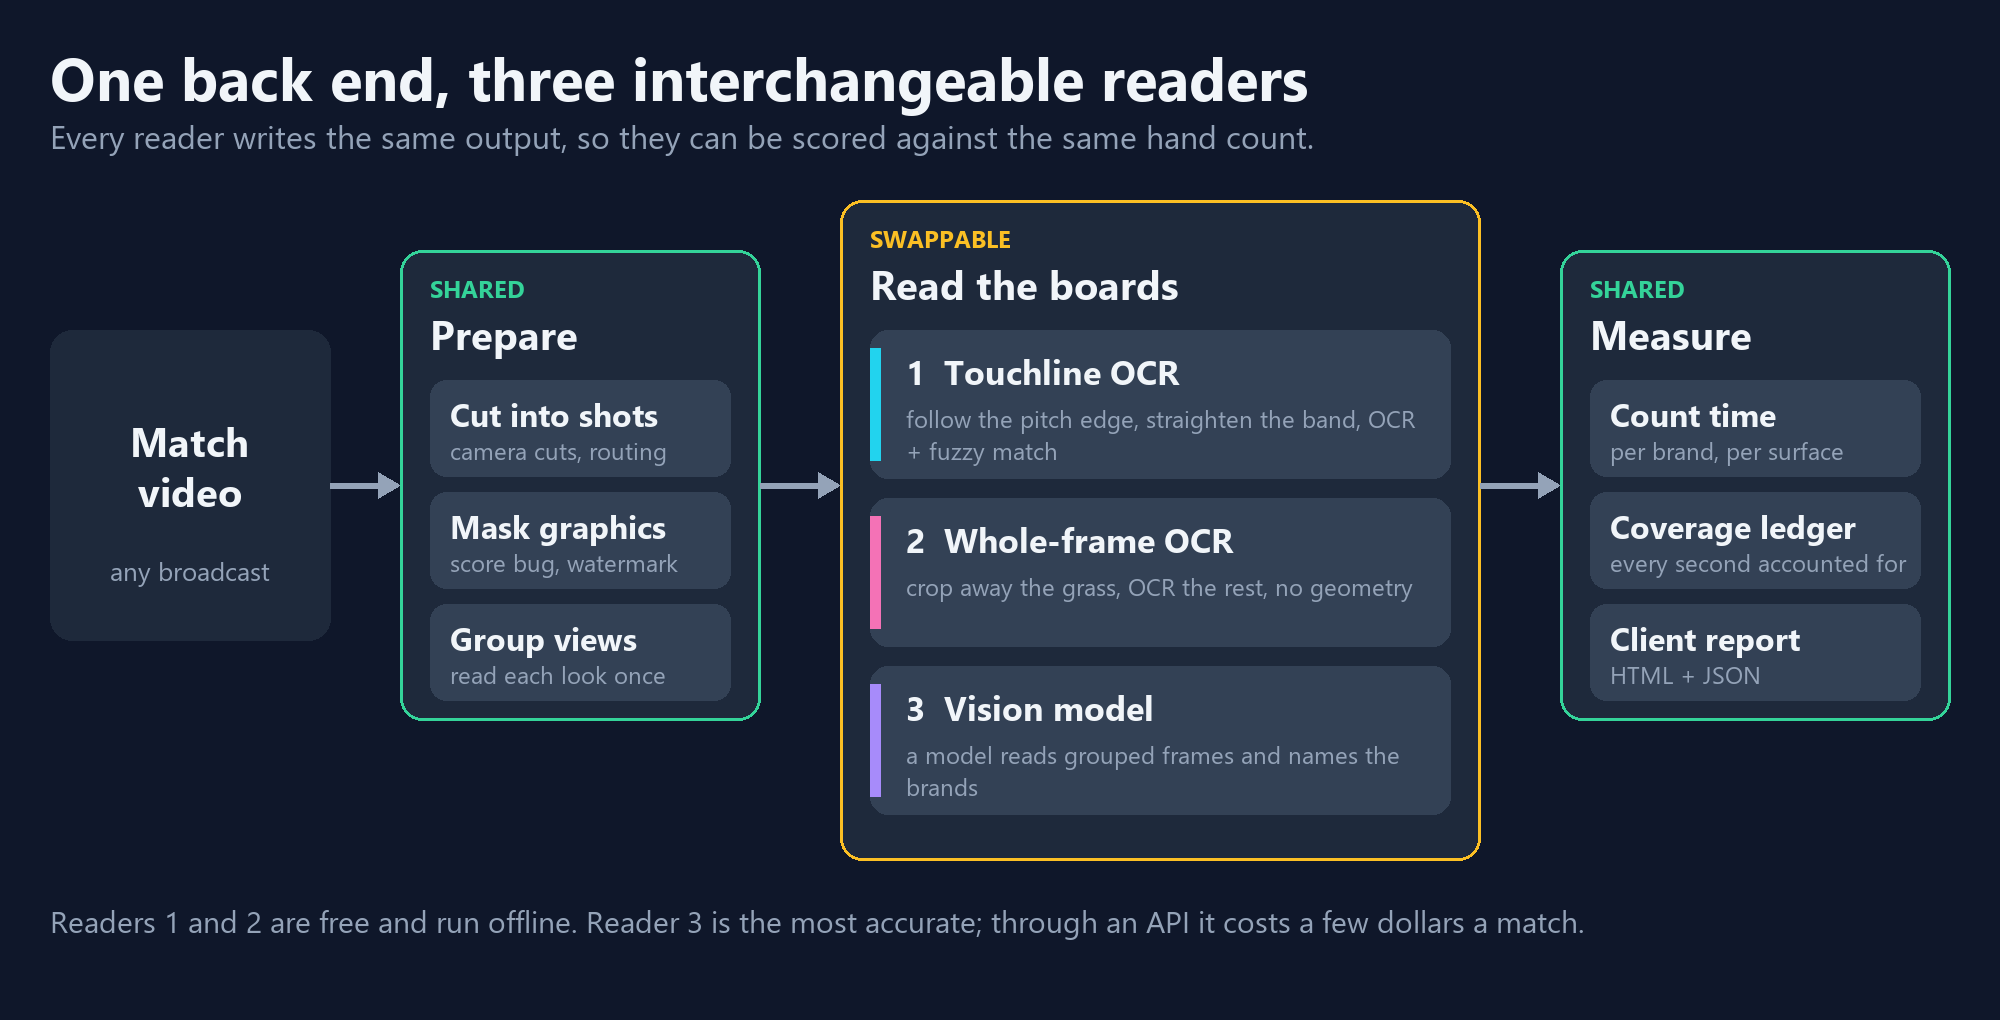
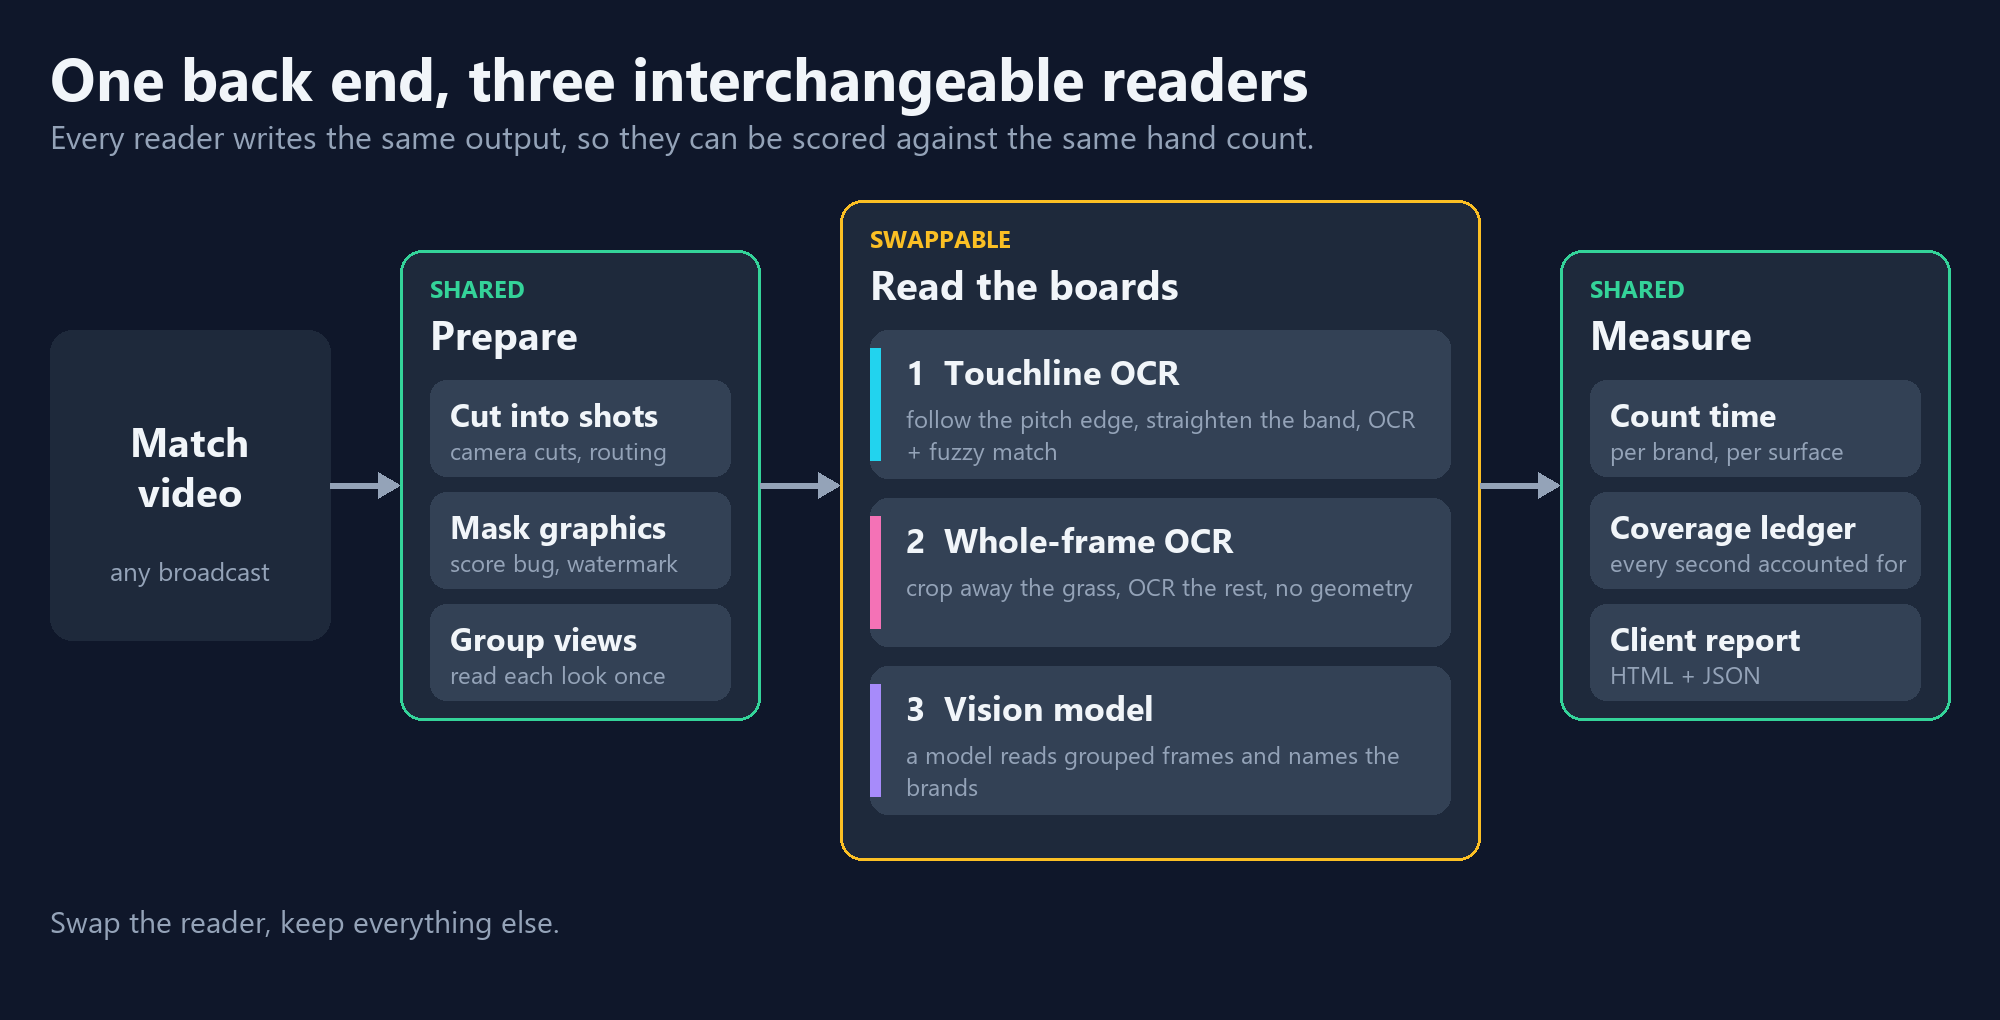
README: drop cost and timing, add a real output example
Removes the speed and cost columns and the cost line from the architecture
figure. Adds a 'What you get' table from an actual run on the clip shown in the
figures: time on screen, share of the clip, size, distance from centre and
brightness for two advertisers.

Changed region(s): [[0.031, 0.8814, 0.775, 0.9118]]

diff --git a/README.md b/README.md
@@ -27,11 +27,28 @@ can be scored against the same hand count.
 
 ### Three ways to read the boards
 
-| Reader | What it does | Speed | Cost | Where it fails |
-|---|---|---|---|---|
-| **Touchline OCR** | Follows the pitch edge, straightens the board band, OCRs it and fuzzy-matches against the sponsor list | Slow, OCR-bound | Free, offline | Needs a board along a fittable far touchline: a usable band on 41% of the test clip. Stylised or low-contrast logos read short |
-| **Whole-frame OCR** | Crops away the grass and OCRs the rest, no geometry | About 2.5 h per 90-minute match after the grass crop (about 15 h before it) | Free, offline | Same legibility bias on stylised marks |
-| **Vision model** | A model reads grouped frames and names the brands | Minutes per match through an API | About $8 a match (estimate from a dry run), or free if a person reads exported frames | Needs an API key and sends crops to a third party. The benchmark is partly circular, see below |
+| Reader | What it does | Where it fails |
+|---|---|---|
+| **Touchline OCR** | Follows the pitch edge, straightens the board band, OCRs it and fuzzy-matches against the sponsor list | Needs a board along a fittable far touchline: a usable band on 41% of the test clip. Stylised or low-contrast logos read short |
+| **Whole-frame OCR** | Crops away the grass and OCRs the rest, no geometry | Same legibility bias on stylised marks |
+| **Vision model** | A model reads grouped frames and names the brands | Needs an API key and sends crops to a third party. The benchmark is partly circular, see below |
+
+## What you get
+
+For each advertiser: how long it was on screen, how big, and where. This is
+real output for the 17-second clip in the figures above, with two advertisers
+on the list:
+
+| Brand | Time on screen | % of clip | Size (% of frame) | Distance from centre | Brightness vs frame |
+|---|---|---|---|---|---|
+| TURKISH AIRLINES | 9.1 s | 54.3% | 2.5% | 0.34 | 1.28x |
+| HEINEKEN | 6.7 s | 39.9% | 1.5% | 0.36 | 1.21x |
+
+Distance runs from 0 (centre of frame) to 1 (corner). Brightness above 1.0
+means the board is brighter than the frame average. Time is counted once per
+brand even when it sits on several panels, and the number of panels is
+reported separately. These are raw exposure figures: no weighting for
+audience, clutter or replays.
 
 ## Results
 
